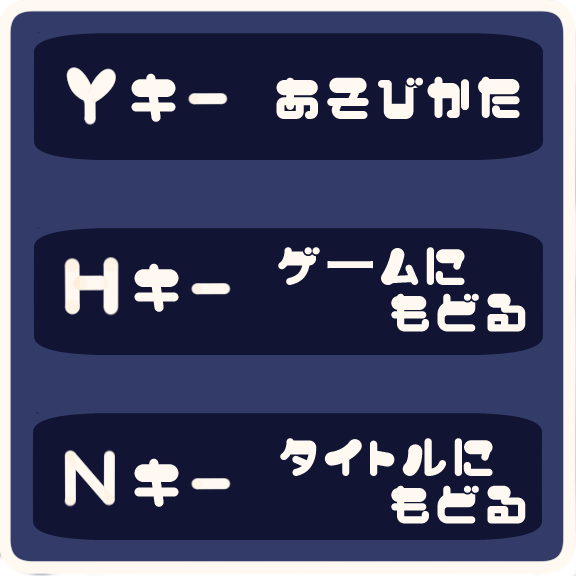
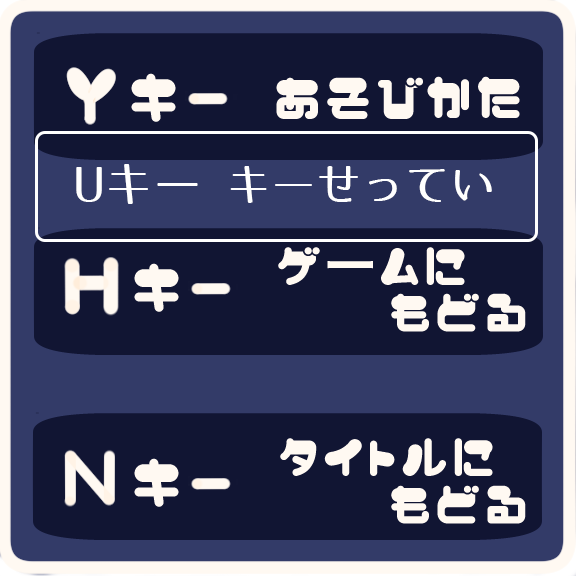
key config

diff --git a/TemplateGame/Help.cs b/TemplateGame/Help.cs
@@ -1,5 +1,6 @@
 using System;
 using System.Collections.Generic;
+using System.Diagnostics;
 using System.Linq;
 using System.Text;
 using System.Threading.Tasks;
@@ -13,45 +14,64 @@ namespace LoopGame
 {
     class Help
     {
+
+        SoundEffect se;
+
         Texture2D helpKey; //右上のヘルプキー表示
         Vector2 keyPos;
         Texture2D help;// ヘルプ画面
         Vector2 helpPos;
+        Texture2D keyConf;//キー設定
+        Vector2 keyConfPos;
 
-        enum HelpState { CLOSE, OPEN, TUTO };
+        enum HelpState { CLOSE, OPEN, TUTO, KEY };
         HelpState nowHelpState;
         public int NowHelpState => (int)nowHelpState;
 
         Input input = new Input();
-        enum KeysNum { H, U, Y, J, N };
+        enum KeysNum { DC, KC,  H, U, Y, J, N };
         Keys[] key;
 
-        //設定
-        bool dirDraw;
-        public bool DirDraw => dirDraw;
-        bool keyFix;
-        public bool KeyFix => keyFix;
+        //キー設定
+        const int BUTTON = 2;
+        Texture2D[] button = new Texture2D[BUTTON];
+        Vector2[] buttonPos = new Vector2[BUTTON];
+        readonly Vector2[] buttonPosL = new Vector2[] { new Vector2(135, 280), new Vector2(135, 550) };
+        readonly Vector2[] buttonPosR = new Vector2[] { new Vector2(450, 280), new Vector2(450, 550) };
+
+        bool[] buttonF = new bool[2];
+        public bool DirDraw => buttonF[(int)KeysNum.DC];
+        public bool KeyFix => buttonF[(int)KeysNum.KC];
 
         public Help()
         {
             helpPos = new Vector2(97, 97);
+            keyConfPos = new Vector2(97, 97);
             keyPos = new Vector2(590, 20);
-            key = new Keys[] { Keys.H, Keys.U, Keys.Y, Keys.J, Keys.N };
+            key = new Keys[] { Keys.D1, Keys.D2, Keys.H, Keys.U, Keys.Y, Keys.J, Keys.N };
             input.Init(key);
-            dirDraw = true;//***
-            keyFix = false;
+
+            for (int i = 0; i < BUTTON; i++)
+            {
+                buttonF[i] = false;
+                buttonPos[i] = buttonPosL[i];
+            }
         }
-        public void Init()
+        public void Init(SoundEffect se)
         {
             nowHelpState = HelpState.CLOSE;
+            this.se = se;
         }
         public void Load(ContentManager content)
         {
             helpKey = content.Load<Texture2D>("help");
             help = content.Load<Texture2D>("option");
+            keyConf = content.Load<Texture2D>("keyConfig");
+            for (int i = 0; i < BUTTON; i++)
+                button[i] = content.Load<Texture2D>("button");
         }
 
-        public void HelpOpen(Action goTitle, Action helpTuto, SoundEffect se)
+        public void HelpOpen(Action goTitle, Action helpTuto)
         {
             switch (nowHelpState)
             {
@@ -81,7 +101,8 @@ namespace LoopGame
                     }
                     else if (input.InputKey((int)KeysNum.U))
                     {
-                        //切り替え
+                        se.Play();
+                        nowHelpState = HelpState.KEY;
                     }
                     else if (input.InputKey((int)KeysNum.J))
                     {
@@ -91,18 +112,67 @@ namespace LoopGame
                 case HelpState.TUTO:
 
                     break;
+                case HelpState.KEY:
+                    KeyConf();
+                    break;
                 default:
                     break;
             }
+
         }
         public void TotuEnd() { nowHelpState = HelpState.OPEN; }
 
+        //キー設定
+        void KeyConf()
+        {
+            if (input.InputKey((int)KeysNum.U))
+            {
+                se.Play();
+                nowHelpState = HelpState.OPEN;
+            }
+            else if (input.InputKey((int)KeysNum.KC))
+                ButtonChenge((int)KeysNum.KC);
+            else if (input.InputKey((int)KeysNum.DC))
+                ButtonChenge((int)KeysNum.DC);
+        }
+        void ButtonChenge(int bn)
+        {
+            se.Play();
+            if (!buttonF[bn])
+            {
+                buttonF[bn] = true;
+                buttonPos[bn] = buttonPosR[bn];
+            }
+            else
+            {
+                buttonF[bn] = false;
+                buttonPos[bn] = buttonPosL[bn];
+            }
+            ButtonAnime(bn);
+        }
+        void ButtonAnime(int bn)
+        {
+
+        }
+
+
+
         public void Draw(SpriteBatch sb)
         {
-            if (nowHelpState == HelpState.OPEN)
-                sb.Draw(help, helpPos, Color.White);
-            else if (nowHelpState == HelpState.CLOSE)
-                sb.Draw(helpKey, keyPos, Color.White);
+            switch (nowHelpState)
+            {
+                case HelpState.OPEN:
+                    sb.Draw(help, helpPos, Color.White);
+                    break;
+                case HelpState.CLOSE:
+                    sb.Draw(helpKey, keyPos, Color.White);
+                    break;
+                case HelpState.KEY:
+                    sb.Draw(keyConf, keyConfPos, Color.White);
+                    for (int i = 0; i < BUTTON; i++)
+                        sb.Draw(button[i], buttonPos[i], Color.White);
+                    break;
+            }
         }
     }
 }

diff --git a/TemplateGame/DirUI.cs b/TemplateGame/DirUI.cs
@@ -11,49 +11,74 @@ namespace LoopGame
     {
 
         Texture2D dirUi;
-        Vector2 pos;
-        float rot;
+        Vector2[] pos;
+        float[] rot;
         const int SIZE = 192;
-        const int C_SIZE = SIZE/2;
+        const int C_SIZE = SIZE / 2;
 
         enum KeyNum
         {
             Up = 1, Right, Down, Left,
         }
 
+        public void Init(int all)
+        {
+            pos = new Vector2[all];
+            rot = new float[all];
+        }
         public void Load(ContentManager cm)
         {
             dirUi = cm.Load<Texture2D>("dir");
         }
 
-        public void DirChenge(int dn, bool dirF)
+        public void DirChenge(int pdn, List<int> Edn, bool dirF)
         {
-            if (!dirF) return;
-            switch (dn)
+            int dn = 0;
+            for (int i = 0; i < rot.Length; i++)
             {
-                case (int)KeyNum.Up:
-                    rot = MathHelper.ToRadians(0);
-                    break;
-                case (int)KeyNum.Right:
-                    rot = MathHelper.ToRadians(90);
-                    break;
-                case (int)KeyNum.Down:
-                    rot = MathHelper.ToRadians(180);
-                    break;
-                case (int)KeyNum.Left:
-                    rot = MathHelper.ToRadians(270);
-                    break;
+                if (!dirF & i == 0) //オフの時
+                {
+                    rot[i]= MathHelper.ToRadians(0);
+                    continue;
+                }
+
+                if (i == 0) dn = pdn; //オンの時
+                else dn = Edn[i - 1];
+
+                switch (dn)
+                {
+                    case (int)KeyNum.Up:
+                        rot[i] = MathHelper.ToRadians(0);
+                        break;
+                    case (int)KeyNum.Right:
+                        rot[i] = MathHelper.ToRadians(90);
+                        break;
+                    case (int)KeyNum.Down:
+                        rot[i] = MathHelper.ToRadians(180);
+                        break;
+                    case (int)KeyNum.Left:
+                        rot[i] = MathHelper.ToRadians(270);
+                        break;
+                }
             }
         }
-        public void CenterPos(Vector2 pp, int ps)
+        public void CenterPos(Vector2 pp, Vector2[] ep, int s)
         {
-            pos = new Vector2(pp.X + ps/2, pp.Y + ps/2);
+            pos[0] = new Vector2(pp.X + s / 2, pp.Y + s / 2);
+            for (int i = 1; i < pos.Length; i++)
+            {
+                pos[i] = new Vector2(ep[i - 1].X + s / 2, ep[i - 1].Y + s / 2);
+            }
         }
 
         public void Draw(SpriteBatch sb, bool df)
         {
             if (!df) return;
-            sb.Draw(dirUi, pos, null, Color.White, rot, new Vector2(C_SIZE,C_SIZE) , Vector2.One, SpriteEffects.None, 0);
+            sb.Draw(dirUi, pos[0], null, Color.White, rot[0], new Vector2(C_SIZE, C_SIZE), Vector2.One, SpriteEffects.None, 0);
+            for (int i = 1; i < pos.Length; i++)
+            {
+                sb.Draw(dirUi, pos[i], null, Color.White * 0.5f, rot[i], new Vector2(C_SIZE, C_SIZE), Vector2.One, SpriteEffects.None, 0);
+            }
         }
     }
 }

diff --git a/TemplateGame/Game1.cs b/TemplateGame/Game1.cs
@@ -93,9 +93,10 @@ namespace LoopGame
             start.Ini(player.Pos.X, player.Pos.Y, map.StageCount, (int)stage);
             clear.Ini();
             edA.Ini(SIZE);
-            help.Init();
+            help.Init(music.Se[(int)SE.ENTER]);
             wait.Init();
             score.Init((int)stage);
+            dirUI.Init(enemy.EnemyIndexs.Count + 1);
 
             player.SetNumber(map.NoFloor, map.NoChara, map.DirMin, map.DirMax, map.AllDirCount);
             enemy.SetNumber(map.NoFloor, map.NoChara, map.DirMin, map.DirMax, map.AllDirCount);
@@ -250,8 +251,8 @@ namespace LoopGame
                     HelpInput();
                     music.Init();
                     if (help.NowHelpState == 0)
-                        player.Move(map.NowPlayerSheet, map.SheetSize, map.AllDirCount,help.KeyFix);
-                    if (player.MoveF)  music.SePlay((int)SE.WALK);
+                        player.Move(map.NowPlayerSheet, map.SheetSize, map.AllDirCount, help.KeyFix);
+                    if (player.MoveF) music.SePlay((int)SE.WALK);
 
                 }
                 if (wait.WaitCount(player.MoveF)) //敵のターン
@@ -261,8 +262,9 @@ namespace LoopGame
                     score.Pluse();
                 }
             }
-            dirUI.CenterPos(player.Pos, player.Size);
-            dirUI.DirChenge(player.DirNum, help.KeyFix);
+            //方向表示
+            dirUI.CenterPos(player.Pos, enemy.Pos, player.Size);
+            dirUI.DirChenge(player.DirNum, enemy.DirNum, help.KeyFix);
 
             if (enemy.DeadAction(map.NowMapSheet, map.NowPlayerSheet)) //敵が全部死んだら
             {
@@ -286,7 +288,7 @@ namespace LoopGame
         //ヘルプ
         void HelpInput()
         {
-            help.HelpOpen(GoTitle, HelpFlagChenge, music.Se[(int)SE.ENTER]);
+            help.HelpOpen(GoTitle, HelpFlagChenge);
             if (tu.OpenHelopTuto) HelpTuto();
         }
         void HelpFlagChenge()

diff --git a/TemplateGame/Enemy.cs b/TemplateGame/Enemy.cs
@@ -12,6 +12,7 @@ namespace LoopGame
     {
         Texture2D enemyChip;
         const int CHIP_SIZE = 64;
+        public int Size => CHIP_SIZE;
         bool[] dead;
 
         //移動　向き
@@ -19,7 +20,10 @@ namespace LoopGame
         Collition collition = new Collition();
         List<int> enemyIndexs;
         List<int> dirNum;
+        public List<int> DirNum => dirNum;
         Vector2[] pos;
+        public Vector2[] Pos => pos;
+
         const int A_D_MOVE = 1;
         Vector2[] drawPos;
         const float D_FIX=5;
